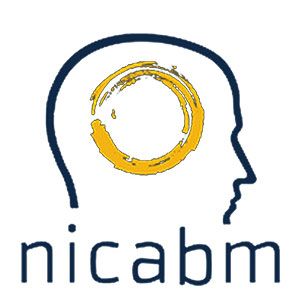
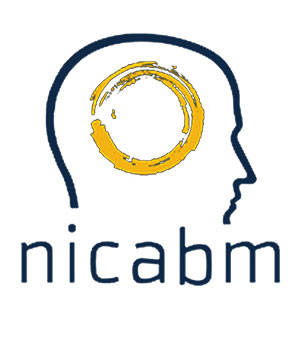
hover effect on profile

Changed region(s): [[0.15, 0.09, 0.96, 0.96], [0.06, 0.66, 0.18, 0.96], [0.3, 0.66, 0.42, 0.96]]

diff --git a/index.html b/index.html
@@ -75,7 +75,8 @@
         <div class="container">
             <div class="row" data-aos="zoom-in-up">
                 <div class="col-4 text-center about-img-container">
-                    <img loading="lazy" src="/images/self.jpg" alt="bruno-figueiredo" id="self-img">
+                    <img loading="lazy" src="/images/self-color.jpg" alt="chris-norman-color" id="self-img">
+                    <img loading="lazy" src="/images/self.jpg" alt="chris-norman" id="self-img">
                 </div>
                 <div class="col-8">
                     <h2 class="title-section">About me</h2>
@@ -113,9 +114,9 @@
                         <ul class="vertical-list" style="font-size: 20px; line-height: 1.7em;">
                             <li>🏃♂ Running</li>
                             <li>🧑💻 Coding</li>
-                            <li>🏂 Snowboarding and Après-Ski</li>
+                            <li>🏂 Snowboarding & Après-Ski</li>
                             <li>🚴♂ Biking</li>
-                            <li>🐶 Hiking w/ the pup</li>
+                            <li>🐶 Hiking with the pup</li>
                         </ul>
                     </div>
                     <div id="content-about">
@@ -145,7 +146,9 @@
                         <li class="tablinks-vertical" onclick="clickTab(event, 'nicabm', false)"
                             id="nicabm">NICABM
                         </li>
-                        <li class="tablinks-vertical" onclick="clickTab(event, 'techsupport', false)" id="techsupport">UConn Tech Support
+                        <li class="tablinks-vertical" onclick="clickTab(event, 'techsupport', false)" id="dynamicfitness">Dynamic Fitness Results
+                        </li>
+                        <li class="tablinks-vertical" onclick="clickTab(event, 'techsupport', false)" id="uconnit">UConn Tech Support
                         </li>
                     </ul>
                 </div>

diff --git a/js/content/experience.js b/js/content/experience.js
@@ -35,9 +35,9 @@ const experienceData = [
 	},
 	{
 		id: generateId(),
-		elemId: 'techsupport-content',
+		elemId: 'dynamic-content',
 		company: 'Dynamic Fitness Results',
-		companyLogoUrl: '/images/fitness-icon.png',
+		companyLogoUrl: '/images/fitness-icon.jpg',
 		role: 'Frontend Developer',
 		date: 'January 2013',
 		roles: [
@@ -48,7 +48,7 @@ const experienceData = [
 	},
 	{
 		id: generateId(),
-		elemId: 'techsupport-content',
+		elemId: 'uconntech-content',
 		company: 'UConn Technology Support Center',
 		companyLogoUrl: '/images/uconn-icon.jpg',
 		role: 'Technology Assistant',

diff --git a/scss/3-components/_image.scss b/scss/3-components/_image.scss
@@ -7,6 +7,25 @@
     }
 }
 
+.about-img-container {
+
+    > img {
+      position: absolute;
+      top: calc(50% - 100px);
+      left: calc(50% - 100px);
+        &:last-of-type {
+        opacity: 1;
+        transition: opacity 0.5s ease-in-out;
+        -moz-transition: opacity 0.5s ease-in-out;
+        -webkit-transition: opacity 0.5s ease-in-out;
+      }
+    }
+
+    &:hover > img:last-of-type {
+    opacity: 0;
+  }
+}
+
 #self-img {
     height: 300px;
     border: 10px double $black;

diff --git a/scss/3-components/_tab.scss b/scss/3-components/_tab.scss
@@ -107,6 +107,10 @@
     }
 }
 
+#hobbies {
+      pointer-events: none;
+}
+
 .skills-tab {
     li {
         font-size: 40px;
